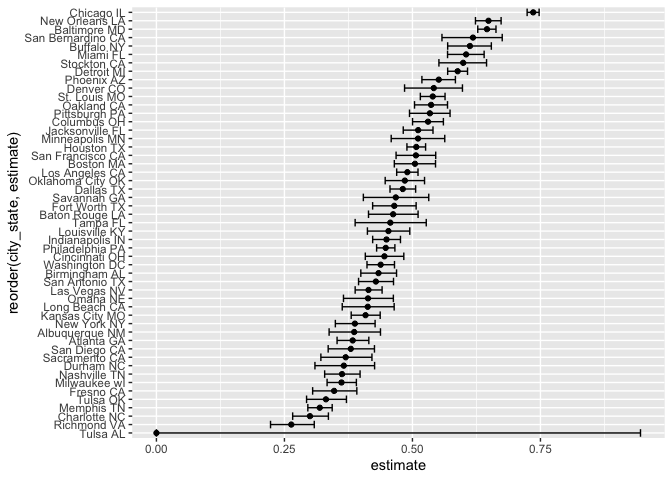
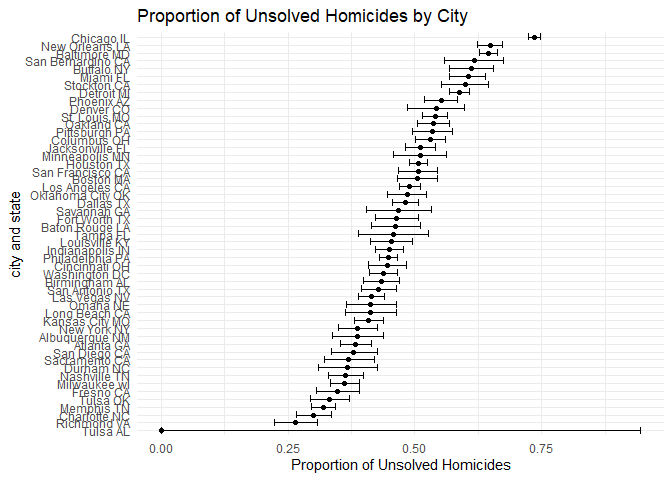
Final version!

diff --git a/p8105_hw5_cp3384.md b/p8105_hw5_cp3384.md
@@ -3,27 +3,20 @@ p8105_hw5_cp3384
 Chenshuo Pan
 2023-11-02
 
-``` r
-library(tidyverse)
-```
-
-    ## ── Attaching core tidyverse packages ──────────────────────── tidyverse 2.0.0 ──
-    ## ✔ dplyr     1.1.3     ✔ readr     2.1.4
-    ## ✔ forcats   1.0.0     ✔ stringr   1.5.0
-    ## ✔ ggplot2   3.4.3     ✔ tibble    3.2.1
-    ## ✔ lubridate 1.9.2     ✔ tidyr     1.3.0
-    ## ✔ purrr     1.0.2     
-    ## ── Conflicts ────────────────────────────────────────── tidyverse_conflicts() ──
-    ## ✖ dplyr::filter() masks stats::filter()
-    ## ✖ dplyr::lag()    masks stats::lag()
-    ## ℹ Use the conflicted package (<http://conflicted.r-lib.org/>) to force all conflicts to become errors
+# Question1
 
 ``` r
 homicide_data <- read.csv("data/homicide-data.csv")
 ```
 
+**Describe the raw data. Create a city_state variable (e.g. “Baltimore,
+MD”) and then summarize within cities to obtain the total number of
+homicides and the number of unsolved homicides (those for which the
+disposition is “Closed without arrest” or “Open/No arrest”).**
+
 ``` r
 city_state_summary<- homicide_data%>%
+#Use string checks and case_when to calculate the status variable based on the scenario
   mutate(status = case_when(
     str_detect(disposition,"No") ==TRUE ~"unsolved homicides ",
     str_detect(disposition,"without") ==TRUE~"unsolved homicides ",
@@ -31,18 +24,33 @@ city_state_summary<- homicide_data%>%
   ))%>%
   mutate(city_state  = paste(city,state))%>%
   group_by(city_state)%>%
+#Calculate the proportion of unsolved homicides
   summarise(unhomicides = sum(status == "unsolved homicides "),n = n())
 ```
 
+The `homicide_data` contains 52179 observations and 12 variables, the
+key variables are: uid, reported_date, victim_last, victim_first,
+victim_race, victim_age, victim_sex, city, state, lat, lon, disposition
+
+**For the city of Baltimore, MD, use the prop.test function to estimate
+the proportion of homicides that are unsolved; save the output of
+prop.test as an R object, apply the broom::tidy to this object and pull
+the estimated proportion and confidence intervals from the resulting
+tidy dataframe.**
+
 ``` r
+#Select area as Baltimore
 md <- city_state_summary %>%
   filter(city_state == "Baltimore MD")
+# pull values out
 unhomicides <- pull(md,unhomicides)
 n <- pull(md,n)
+
+#Do prop test
 md_test <- prop.test(unhomicides,n)
 
 prop_test<-broom::tidy(md_test)
-
+# create a dataframe to show the tidy table
 data.frame(city = "Baltimore MD",
           proportion = pull(prop_test,estimate),
           confidence_interval = paste("[",pull(prop_test,conf.low),
@@ -52,11 +60,20 @@ data.frame(city = "Baltimore MD",
     ##           city proportion                     confidence_interval
     ## p Baltimore MD  0.6455607 [ 0.627562457662644 0.663159860401662 ]
 
+**Now run prop.test for each of the cities in your dataset, and extract
+both the proportion of unsolved homicides and the confidence interval
+for each. Do this within a “tidy” pipeline, making use of purrr::map,
+purrr::map2, list columns and unnest as necessary to create a tidy
+dataframe with estimated proportions and CIs for each city.**
+
 ``` r
-xx<-city_state_summary%>%
+# run prop.test for each of the cities
+all_city_state<-city_state_summary%>%
+# do prop test for each row
   mutate(test = map2(unhomicides,n,~prop.test(.x,.y)))%>%
   mutate(tidy = map(test,broom::tidy))%>%
   unnest(tidy)%>%
+# mutate confidence interval variable
   mutate(confidence = paste("[",conf.low,conf.high,"]"))%>%
   select(city_state,estimate,conf.low,conf.high,confidence)
 ```
@@ -67,7 +84,7 @@ xx<-city_state_summary%>%
     ## ! Chi-squared approximation may be incorrect
 
 ``` r
-xx
+all_city_state
 ```
 
     ## # A tibble: 51 × 5
@@ -85,10 +102,240 @@ xx
     ## 10 Cincinnati OH     0.445    0.408     0.483 [ 0.407960574220688 0.48314388061…
     ## # ℹ 41 more rows
 
+**Create a plot that shows the estimates and CIs for each city – check
+out geom_errorbar for a way to add error bars based on the upper and
+lower limits. Organize cities according to the proportion of unsolved
+homicides.**
+
 ``` r
-ggplot(xx,aes(y = reorder(city_state, estimate) ,x = estimate))+
+#shows the estimates and CIs for each city
+ggplot(all_city_state,aes(y = reorder(city_state, estimate) ,x = estimate))+
   geom_point() +
-  geom_errorbar(aes(xmin = conf.low,xmax = conf.high))
+  geom_errorbar(aes(xmin = conf.low,xmax = conf.high))+
+  labs(x = "Proportion of Unsolved Homicides", y = "city and state", title = "Proportion of Unsolved Homicides by City") +
+  theme_minimal()
 ```
 
 ![](p8105_hw5_cp3384_files/figure-gfm/unnamed-chunk-6-1.png)<!-- -->
+
+I sorted by the average proportion of each city-state. It can be seen
+that the highest Proportion of Unsolved Homicides is Chicago and the
+lowest is Tulsa, AL.
+
+# Question2
+
+**Create a tidy dataframe containing data from all participants,
+including the subject ID, arm, and observations over time**
+
+``` r
+#read vsv file first , using list files and map() to read all csv in the path
+#then unnest
+longitudinal <- data.frame(file_name = paste("./data/",list.files(path = "./data",pattern = "[0-9].csv",),sep = ""))%>%
+  mutate(x = map(file_name,read_csv))%>%
+  unnest(x)%>%
+#Use string sub to keep the key information
+  mutate(ID = str_sub(file_name,12,13),
+         group = str_sub(file_name,8,10))%>%
+  select(-file_name)%>%
+  relocate(group,ID)%>%
+#make a long table to make sure weekly observations are “tidy”,
+  pivot_longer(week_1:week_8,values_to = "value",names_to = "week")%>%
+  mutate(week = str_sub(week,-1,-1),
+         week = as.numeric(week))
+
+longitudinal
+```
+
+    ## # A tibble: 160 × 4
+    ##    group ID     week value
+    ##    <chr> <chr> <dbl> <dbl>
+    ##  1 con   01        1  0.2 
+    ##  2 con   01        2 -1.31
+    ##  3 con   01        3  0.66
+    ##  4 con   01        4  1.96
+    ##  5 con   01        5  0.23
+    ##  6 con   01        6  1.09
+    ##  7 con   01        7  0.05
+    ##  8 con   01        8  1.94
+    ##  9 con   02        1  1.13
+    ## 10 con   02        2 -0.88
+    ## # ℹ 150 more rows
+
+**Make a spaghetti plot showing observations on each subject over time,
+and comment on differences between groups.**
+
+``` r
+#showing observations on each subject over time
+longitudinal%>%
+  ggplot(aes(x = week, y = value,color = ID))+
+  geom_line()+
+#plot according to groups
+  facet_grid(~group)+
+  labs(x = "Week", y = "Value", title = "observations on each subject over time") +
+  theme_minimal()
+```
+
+![](p8105_hw5_cp3384_files/figure-gfm/unnamed-chunk-8-1.png)<!-- -->
+
+Comment: Comparing the control group and the experimental group, we can
+see that among the ten sets of data in the control group, the Value only
+fluctuates up and down with the week, and there is no clear trend. In
+the experimental group, almost all IDs showed positive correlation,
+which means that as Week increases, Value also increases. \# Question 3
+
+**First set the following design elements:**
+
+**Fix n=30** **Fix σ=5** **Set μ=0. Generate 5000 datasets from the
+model**
+
+**x∼Normal\[μ,σ\]**
+
+**For each dataset, save μ^ and the p-value arising from a test of H:μ=0
+using α=0.05. Hint: to obtain the estimate and p-value, use broom::tidy
+to clean the output of t.test.**
+
+``` r
+n = 30
+sigma = 5
+set.seed(123)
+mu =0
+
+# This is the function calculating p_value and mu hat for each sample we generated. 
+
+sample_t = function(n = 30, mu = 0, sigma = 5) {
+#simulation  
+  sim_data = tibble(
+    x = rnorm(n, mean = mu, sd = sigma),
+  )
+# do t test  
+  test_result <- t.test(pull(sim_data,x), mu = 0)
+  tidy_test_result <- broom::tidy(test_result)
+  
+  results <- tibble(mu_hat = pull(tidy_test_result,estimate),p.value = pull(tidy_test_result,p.value))
+  
+  return(results)
+}
+
+# This is the function to simulate the sample_t 5000times and calculate the proportion of reject cases
+simulation = function(mu){
+  
+  output = vector("list", 5000)
+# do sample_t 5000 times
+  for(i in 1:5000){
+    output[[i]] = sample_t(30,mu = mu,5)
+  }
+  
+  sim_out = bind_rows(output)
+
+# fo two-sided t test and create a table contains all information we need  
+  proportion = sim_out%>%
+    mutate(reject = ifelse(p.value < 0.025 | p.value > 0.975, 1, 0))%>%
+    summarise(prop = sum(reject)/5000,
+              muhat = mean(mu_hat),
+              null_muhat = mean(mu_hat[reject==1]))
+  
+  
+
+  return(proportion)
+}
+
+# return table for mu =0
+simulation(mu = 0)
+```
+
+    ## # A tibble: 1 × 3
+    ##     prop   muhat null_muhat
+    ##    <dbl>   <dbl>      <dbl>
+    ## 1 0.0446 0.00900     0.0785
+
+**Repeat the above for $\mu$={1,2,3,4,5,6}, and complete the
+following:** I combine $\mu = 0$ with the rest (1-6)
+
+``` r
+sim_output = data.frame(mu = numeric(7), proportion= numeric(7),mu_hat= numeric(7),null= numeric(7))
+# repeat for mu = 0-6
+for (i in 0:6) {
+  a = simulation(mu = i)
+  sim_output[i,"mu"] = i
+  sim_output[i,"proportion"] = a[1,"prop"]
+  sim_output[i,"mu_hat"] = a[1,"muhat"]
+  sim_output[i,"null"] = a[1,"null_muhat"]
+}
+```
+
+**Make a plot showing the proportion of times the null was rejected (the
+power of the test) on the y axis and the true value of $\mu$ on the x
+axis. Describe the association between effect size and power.**
+
+``` r
+#showing the proportion of times the null was rejected 
+ggplot(sim_output,aes(x = mu , y =proportion))+
+  geom_line()+
+  geom_point() +
+  labs(x = "true value of mu", y = "proportion of rejection", title = "Rejection proportion corresponding to different mu") +
+  scale_x_continuous(breaks = seq(0, 6, 1)) +
+  theme_minimal()
+```
+
+![](p8105_hw5_cp3384_files/figure-gfm/unnamed-chunk-11-1.png)<!-- -->
+
+Comment: As can be seen from the figure above, for the test H:$\mu = 0$:
+as the true average value used by our simulated data increases, the
+proportion of rejecting the null hypothesis increases. When the real mu
+value is 5 or greater, We will almost reject H:\$= 0 \$ for all the
+generated random data.
+
+**Make a plot showing the average estimate of $\mu$^ on the y axis and
+the true value of $\mu$ on the x axis. Make a second plot (or overlay on
+the first) the average estimate of $\mu$^ only in samples for which the
+null was rejected on the y axis and the true value of $\mu$ on the x
+axis. Is the sample average of $\mu$^ across tests for which the null is
+rejected approximately equal to the true value of μ? Why or why not?**
+
+``` r
+#showing the average estimate of mu and the true mu
+ggplot(sim_output,aes(x = mu , y =mu_hat))+
+  geom_line() +
+  geom_point() +
+  labs(x = "true value of mu", y = "average estimate of mu hat", title = "Average estimated value versus true value of Mu") +
+  scale_x_continuous(breaks = seq(0, 6, 1)) +
+  scale_y_continuous(breaks = seq(0, 6, 1))+
+  theme_minimal()
+```
+
+![](p8105_hw5_cp3384_files/figure-gfm/unnamed-chunk-12-1.png)<!-- -->
+
+Comment: When the number of our simulations is large enough (n=5000) we
+can find that the average $\mu_{hat}$ will be very close to the real
+$mu$ value, so the image appears as y=x.
+
+``` r
+#average estimate of mu only in samples for which the null was rejected and average estimate of mu and the true mu
+
+
+ggplot(sim_output) +
+#plot average estimate of mu
+  geom_point(aes(x = mu, y = mu_hat, color = "mu_hat")) +
+#plot average estimate of mu only in samples for which the null was rejected
+  geom_point(aes(x = mu, y = null, color = "mu_hat for reject part")) +
+  geom_line(aes(x = mu, y = mu_hat, color = "mu_hat")) +
+  geom_line(aes(x = mu, y = null, color = "mu_hat for reject part")) +
+  scale_color_manual(values = c("mu_hat" = "blue", "mu_hat for reject part" = "red")) +
+  labs(x = "true value of mu", y = "average estimate of mu hat", title = "Average estimated value and true value of Mu under different conditions") +
+  scale_x_continuous(breaks = seq(0, 6, 1)) +
+  scale_y_continuous(breaks = seq(0, 6, 1))+
+  theme_minimal()
+```
+
+![](p8105_hw5_cp3384_files/figure-gfm/unnamed-chunk-13-1.png)<!-- -->
+
+Comments:When $\mu$ is 0 or 4, 5, or 6, the average predicted value is
+close to the average predicted value of the rejected hypothesis part,
+and both are approximate to the true value. And when $\mu$ is 1,2,3, the
+average predicted value of the part that rejects the null hypothesis
+will be higher than the average predicted value. The above phenomenon is
+because we set H:\$= 0 \$, and we will reject the hypothesis only when
+the predicted value of a sample is significantly greater or less than 0.
+Therefore, as the true value mu increases, the average predicted value
+and the average predicted value of the rejected hypothesis part will
+converge.
